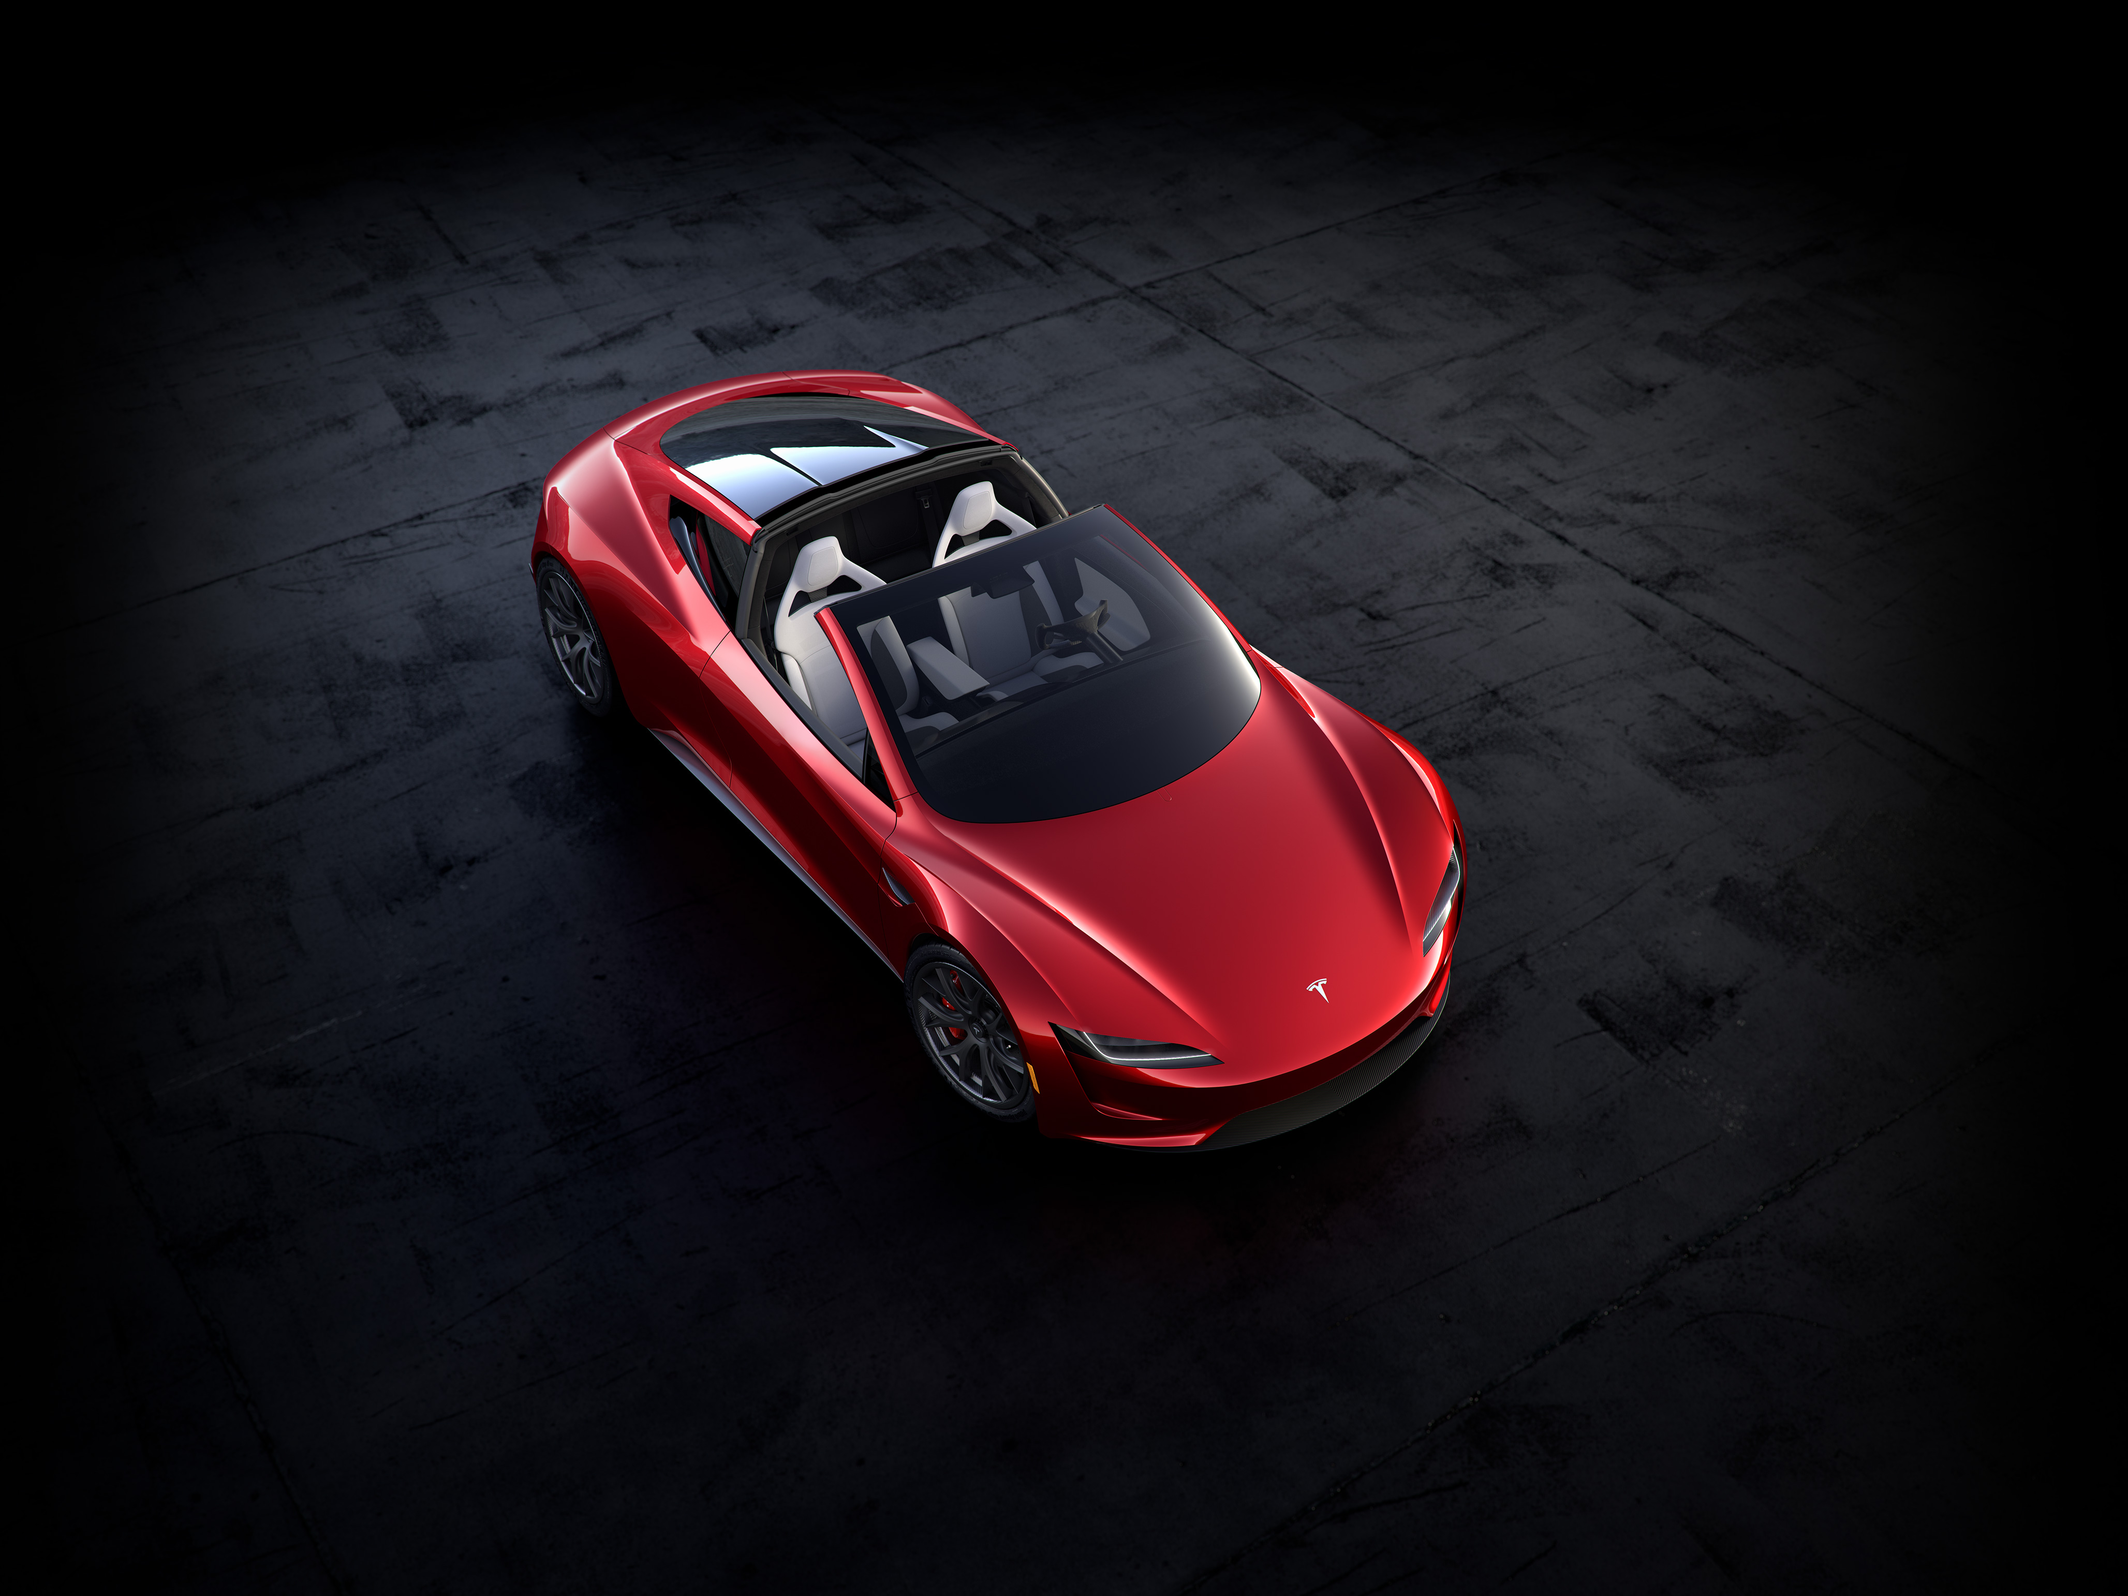
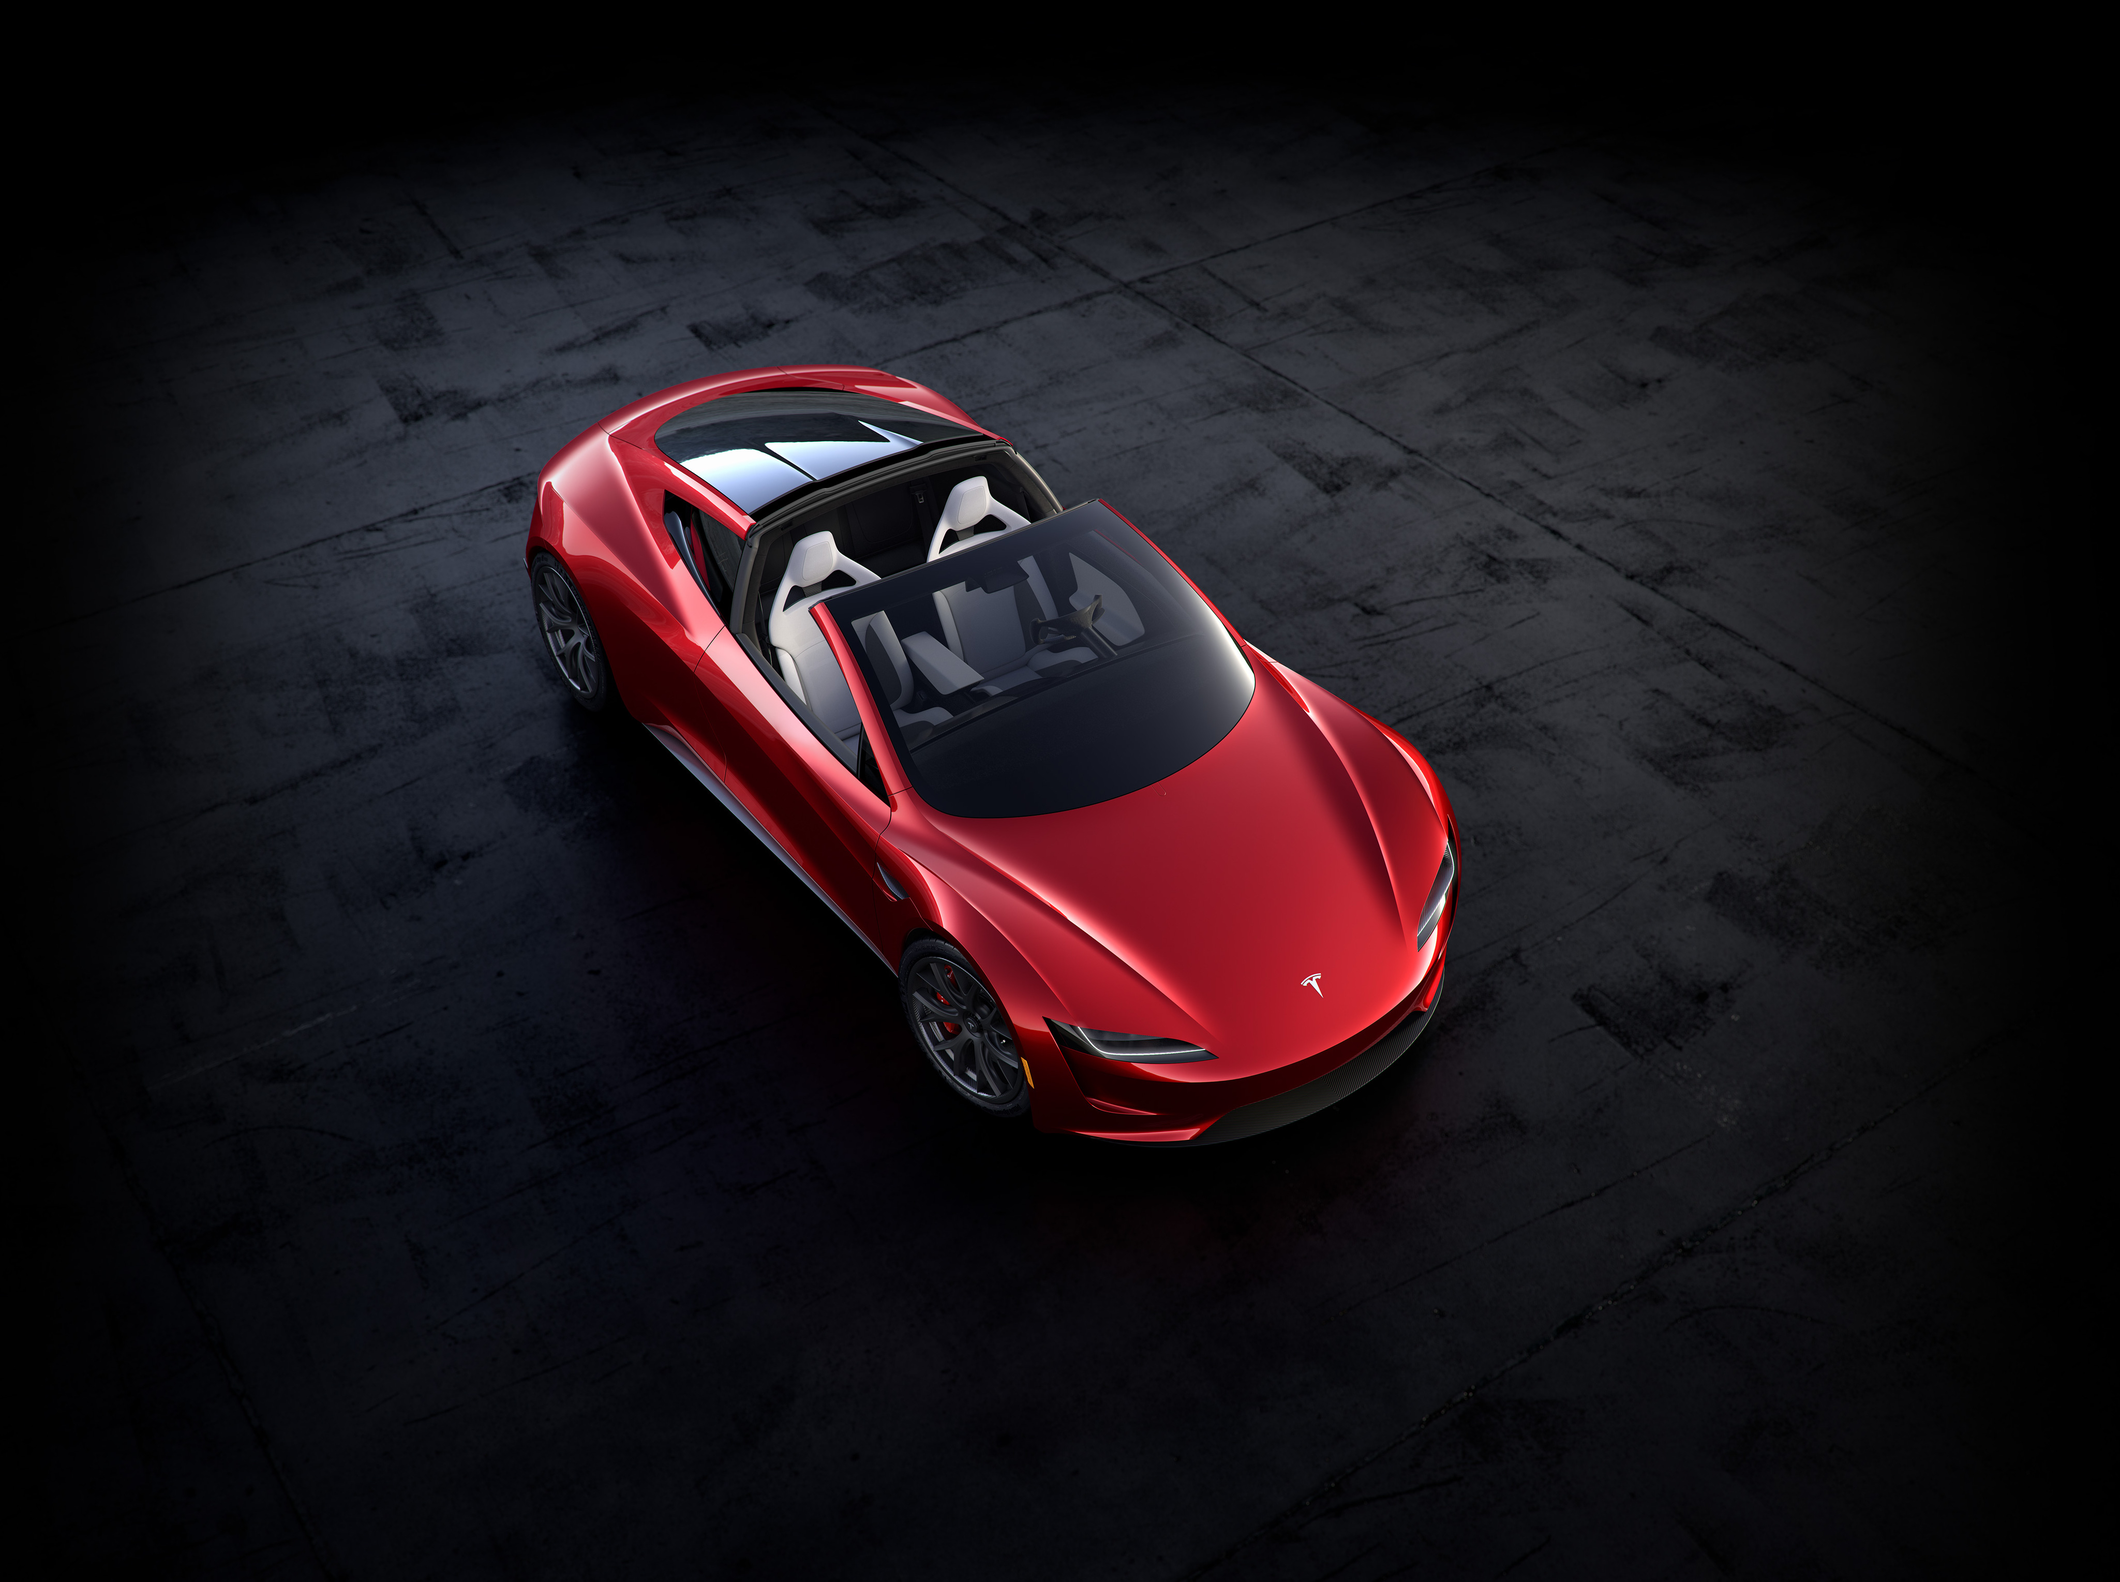
finese

diff --git a/src/Info.js b/src/Info.js
@@ -22,7 +22,7 @@ export let Info  = {
 					id:1,
 					headline: 'Built around the driver',
 					image: '../img/assets/model-s/slider/interior-details.jpg',
-					text: `Model S is a driver's car. The cabin combines meticulous noise engineering with Tesla's uniquely quiet powertrain to obtain the sound dynamics of a recording studio. The gem of the interior is the 17 inch touchscreen, which is angled toward the driver and includes both day and night modes for better visibility without distraction. It puts rich content at your fingertips and provides mobile connectivity so you can easily find your destination, favorite song or a new restaurant.`,
+					text: `Model S is a driver's car. The cabin combines meticulous noise engineering with Tesla's uniquely quiet powertrain to obtain the sound dynamics of a recording studio. The gem of the interior is the 17 inch touchscreen, which is angled toward the driver and includes both day and night modes for better visibility without distraction. `,
 				},
 				{	
 					id:2,
@@ -365,13 +365,13 @@ export let Info  = {
 						id:1,
 						headline: 'The Safest SUV Ever',
 						image: '../img/assets/model-x/main-slideshow/ski.jpg',
-						text: `Model X is the safest SUV ever, with standard active safety features and hardware built to provide visibility that a driver cannot access alone. Eight surround cameras allow for 360-degree vision, while twelve ultrasonic sensors provide detection of surrounding objects. Forward-facing radar see through heavy rain, fog, dust, and beyond the vehicle ahead—helping to prevent accidents by providing simultaneous visibility in every direction. Model X is the first SUV ever to achieve a 5-star safety rating in every category and sub-category, the lowest probability of occupant injury, and a rollover risk half that of any SUV on the road.`,
+						text: `Model X is the safest SUV ever, with standard active safety features and hardware built to provide visibility that a driver cannot access alone. Eight surround cameras allow for 360-degree vision, while twelve ultrasonic sensors provide detection of surrounding objects.  `,
 					},
 					{	
 						id:2,
 						headline: 'Seating and Storage',
 						image: '../img/assets/model-x/main-slideshow/indoor-dark.jpg',
-						text: 'Model X has the most storage room of any sport utility vehicle in its class, and seating for up to seven adults. Designed to maximize passenger comfort, the second and third row in the seven-seat option are capable of folding flat and flush, creating extra cargo space. Available in three custom seating configurations, Model X can be optimized to suit the specific needs of you and your family.',
+						text: 'Model X has the most storage room of any sport utility vehicle in its class, and seating for up to seven adults. Designed to maximize passenger comfort, the second and third row in the seven-seat option are capable of folding flat and flush, creating extra cargo space. ',
 					},
 					{	
 						id:3,
@@ -401,13 +401,13 @@ export let Info  = {
 						id:1,
 						headline: 'The Safest SUV Ever',
 						image: '../img/assets/model-x/main-slideshow/ski.jpg',
-						text: `Model X is the safest SUV ever, with standard active safety features and hardware built to provide visibility that a driver cannot access alone. Eight surround cameras allow for 360-degree vision, while twelve ultrasonic sensors provide detection of surrounding objects. Forward-facing radar see through heavy rain, fog, dust, and beyond the vehicle ahead—helping to prevent accidents by providing simultaneous visibility in every direction.`,
+						text: `Model X is the safest SUV ever, with standard active safety features and hardware built to provide visibility that a driver cannot access alone. Eight surround cameras allow for 360-degree vision, while twelve ultrasonic sensors provide detection of surrounding objects. `,
 					},
 					{	
 						id:2,
 						headline: 'Seating and Storage',
 						image: '../img/assets/model-x/main-slideshow/indoor-dark.jpg',
-						text: 'Model X has the most storage room of any sport utility vehicle in its class, and seating for up to seven adults. Designed to maximize passenger comfort, the second and third row in the seven-seat option are capable of folding flat and flush, creating extra cargo space. Available in three custom seating configurations, Model X can be optimized to suit the specific needs of you and your family.',
+						text: 'Model X has the most storage room of any sport utility vehicle in its class, and seating for up to seven adults. Designed to maximize passenger comfort, the second and third row in the seven-seat option are capable of folding flat and flush, creating extra cargo space. ',
 					},
 					{	
 						id:3,
@@ -432,7 +432,7 @@ export let Info  = {
 					id:0,
 					headline: 'Affordable',
 					image: '../img/assets/model-3/red-bay.jpg',
-					text: `After much anticipation, the Tesla Model 3 has finally been shown in production form. The "affordable" Tesla sedan, as it's often called, has a starting price of $35,000 before incentives. The base model has an estimated range of 220 miles and will go from 0 to 60 mph in 5.6 seconds, according to Tesla. An optional battery pack is available for $9,000 that increases range to 310 miles and drops the 0-60-mph time to 5.1 seconds.`,
+					text: `After much anticipation, the Tesla Model 3 has finally been shown in production form. The "affordable" Tesla sedan, as it's often called, has a starting price of $35,000 before incentives. The base model has an estimated range of 220 miles and will go from 0 to 60 mph in 5.6 seconds, according to Tesla. `,
 				},
 				{	
 					id:1,
@@ -572,19 +572,19 @@ export let Info  = {
 						id:0,
 						headline: 'Affordable',
 						image: '../img/assets/model-3/red-bay.jpg',
-						text: `After much anticipation, the Tesla Model 3 has finally been shown in production form. The "affordable" Tesla sedan, as it's often called, has a starting price of $35,000 before incentives. The base model has an estimated range of 220 miles and will go from 0 to 60 mph in 5.6 seconds, according to Tesla. An optional battery pack is available for $9,000 that increases range to 310 miles and drops the 0-60-mph time to 5.1 seconds.`,
+						text: `After much anticipation, the Tesla Model 3 has finally been shown in production form. The "affordable" Tesla sedan, as it's often called, has a starting price of $35,000 before incentives. The base model has an estimated range of 220 miles and will go from 0 to 60 mph in 5.6 seconds, according to Tesla. `,
 					},
 					{	
 						id:1,
 						headline: 'Interior',
 						image: '../img/assets/model-3/interior-head-unit.jpg',
-						text: `The interior is dominated by the standard 15-inch touchscreen display mounted in the center of the dash. There is no traditional instrument cluster, so all functions are controlled and monitored through the center screen. Dual-zone climate control, Wi-Fi and navigation all come standard along with all the hardware necessary for semiautonomous driving capabilities. A separate Autopilot options package ($5,000) is required to unlock most of those features, including adaptive cruise control, lane keeping assist and remote parking. Tesla says that another package can be added on top of that for $3,000 to bring full autonomous capabilities, although the actual implementation of it has yet to be finalized.`,
+						text: `The interior is dominated by the standard 15-inch touchscreen display mounted in the center of the dash. There is no traditional instrument cluster, so all functions are controlled and monitored through the center screen. Dual-zone climate control, Wi-Fi and navigation all come standard along with all the hardware necessary for semiautonomous driving capabilities. `,
 					},
 					{
 						id:2,
 						headline: 'Features',
 						image: '../img/assets/model-3/interior.jpg',
-						text: 'The car doesn’t have a key, or a key fob. Instead it syncs to your phone through a bluetooth connection and will automatically unlock as you approach. The backup in case your phone dies or you need to hand it off to a valet is a thin key card that you can keep in your wallet. Swipe it on the car’s B pillar to unlock it, and place it on the center console to turn the car on. Unlike early versions of the Model S and X, the Model 3 is built to be a daily driver, with plenty of cupholders, door pockets, and console storage. The materials of the arm rests and doors feel ready for abuse. And the stitched synthetic material used for the premium seats is different than leather, but not inferior.  ',
+						text: 'The car doesn’t have a key, or a key fob. Instead it syncs to your phone through a bluetooth connection and will automatically unlock as you approach. The backup in case your phone dies or you need to hand it off to a valet is a thin key card that you can keep in your wallet. Swipe it on the car’s B pillar to unlock it, and place it on the center console to turn the car on.  ',
 					},
 				],
 			},
@@ -607,13 +607,13 @@ export let Info  = {
 						id:1,
 						headline: 'Interior',
 						image: '../img/assets/model-3/interior-head-unit.jpg',
-						text: `The interior is dominated by the standard 15-inch touchscreen display mounted in the center of the dash. There is no traditional instrument cluster, so all functions are controlled and monitored through the center screen. Dual-zone climate control, Wi-Fi and navigation all come standard along with all the hardware necessary for semiautonomous driving capabilities. A separate Autopilot options package ($5,000) is required to unlock most of those features, including adaptive cruise control, lane keeping assist and remote parking. Tesla says that another package can be added on top of that for $3,000 to bring full autonomous capabilities, although the actual implementation of it has yet to be finalized.`,
+						text: `The interior is dominated by the standard 15-inch touchscreen display mounted in the center of the dash. There is no traditional instrument cluster, so all functions are controlled and monitored through the center screen. Dual-zone climate control, Wi-Fi and navigation all come standard along with all the hardware necessary for semiautonomous driving capabilities.`,
 					},
 					{
 						id:2,
 						headline: 'Features',
 						image: '../img/assets/model-3/interior.jpg',
-						text: 'The car doesn’t have a key, or a key fob. Instead it syncs to your phone through a bluetooth connection and will automatically unlock as you approach. The backup in case your phone dies or you need to hand it off to a valet is a thin key card that you can keep in your wallet. Swipe it on the car’s B pillar to unlock it, and place it on the center console to turn the car on. Unlike early versions of the Model S and X, the Model 3 is built to be a daily driver, with plenty of cupholders, door pockets, and console storage. The materials of the arm rests and doors feel ready for abuse. And the stitched synthetic material used for the premium seats is different than leather, but not inferior.  ',
+						text: 'The car doesn’t have a key, or a key fob. Instead it syncs to your phone through a bluetooth connection and will automatically unlock as you approach. The backup in case your phone dies or you need to hand it off to a valet is a thin key card that you can keep in your wallet. Swipe it on the car’s B pillar to unlock it, and place it on the center console to turn the car on.  ',
 					},
 				],
 			},
@@ -621,7 +621,7 @@ export let Info  = {
 		{
 			name:'Roadster',
 			tagline: '',
-			summary: `Tesla Roadster2019 Tesla Roadster shownCar and DriverCar Buying ServiceLocal dealer pricing not available for this vehicle.The original Tesla Roadster put the all-electric automaker on the map, even if most Model S and Model X buyers don’t remember it. Touted to make its return to the lineup in 2020, the new Roadster picks up where the old model left off, and then some. Tesla claims a zero-to-60-mph time of 1.9 seconds and a top speed of more than 250 mph; all-wheel drive will be standard and a 200-kWh battery is said to provide 620 miles of range. `,
+			summary: `Tesla Roadster 2019 Tesla Roadster shownCar and DriverCar Buying ServiceLocal dealer pricing not available for this vehicle.The original Tesla Roadster put the all-electric automaker on the map, even if most Model S and Model X buyers don’t remember it. Touted to make its return to the lineup in 2020, the new Roadster picks up where the old model left off, and then some.  `,
 			hero:{
 				video: '../img/assets/roadster/roadster.mp4',
 				hero: '../img/assets/roadster/hero.jpg',
@@ -631,7 +631,7 @@ export let Info  = {
 				{
 					id:0,
 					headline: 'Glass Roof',
-					image: '../img/assets/roadster/top-open.jpg',
+					image: '../img/assets/roadster/top-open-sized.jpg',
 					text: 'The panoramic roof adds more light and a sense of space to the interior and is available in three levels of tinting; two fixed and one variable. The extended leather interior, standard on the Roadster, provides a sumptuous finish to the headlining.',
 				},
 				{

diff --git a/src/Car.js b/src/Car.js
@@ -26,6 +26,9 @@ const Button = styled.div`
 const LgCarImage = styled.div`
   width: 100vw;
   background-repeat: no-repeat;
+  background-size: cover;
+  padding-bottom: 55vh;
+  background-position: center;
 
   >.button-text{
     position: relative;
@@ -51,8 +54,7 @@ export default class Car extends Component {
           <h1>{this.props.name}</h1>
           <Button><NavLink to={`${this.props.name.replace(' ','-')}/Overview`}>Discover</NavLink></Button>
         </div>
-        <LgImage src={this.props.source} />
-  			
+         			
   		 </LgCarImage>
   	)
   }

diff --git a/src/Spec.js b/src/Spec.js
@@ -2,6 +2,7 @@ import React, { Component } from 'react';
 import styled from 'styled-components';
 const LightWrap = styled.div`
 	background:transparent;
+	padding-left: 5%;
 	display:flex;
 	h3 {
 		width:50%
@@ -15,6 +16,8 @@ const LightWrap = styled.div`
 const DarkWrap = styled.div`
 	background:RGBA(50,50,50,.2);
 	display:flex;
+    height: 50px;
+    padding-left: 5%;
 	h3 {
 		width:50%;
 	}

diff --git a/src/NavBar.js b/src/NavBar.js
@@ -8,6 +8,7 @@ const NavStyle = styled.nav`
   background-color: rgb(34, 34, 34);
   display: flex;
   justify-content: space-between;
+  
 `
 
 const UlStyle = styled.ul`
